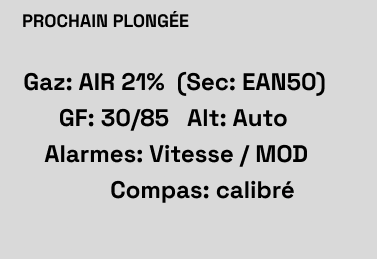
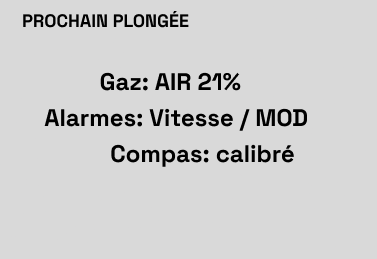
update mockup

diff --git a/docs/mockup.md b/docs/mockup.md
@@ -46,12 +46,12 @@ L'ordinateur affiche plusieurs widgets d'information pendant la plongée :
 - Température : 13.4°C
 - Profondeur maximale : 66m
 - Durée de plongée : 00:26
-- Pression restante dans le détendeur : 50 bars 
+- Pression restante dans la bouteille : 50 bars 
 ![alt text](./mockup/computer/Group%209.png "Title")
 
 **Paliers de décompression** :
 - Graphique des paliers à faire
-- Pression restante dans le détendeur : 50 bars 
+- Pression restante dans la bouteille : 50 bars 
 - Temps restant au palier actuel : 5min
 - Paliers restants : 6m→3m
 - Temps total jusqu'à la surface : 00:15
@@ -68,11 +68,11 @@ L'ordinateur affiche plusieurs widgets d'information pendant la plongée :
   ![alt text](./mockup/computer/Group%205.png "Title")
 
 ### Page disponnible avant la plongée
-**Gaz actif** : 
-- EAN32 (MOD 33m)
-- EAN50 (MOD 21m)
-- Trimix 18/45 (MOD 57m)
-  ![alt text](./mockup/computer/Group%204.png "Title")
+**Sélection du gaz** : 
+- MOD 21m calculer en fonction du gaz choisi
+- Air (21% O²)
+- Nitrox avec le choix du pourcentage d'O²
+  ![alt text](./mockup/computer/Group%2010.png "Title")
 
 **Statuts système** :
 - Batterie : 28%
@@ -86,7 +86,6 @@ L'ordinateur affiche plusieurs widgets d'information pendant la plongée :
 
 **Prochaine plongée** :
 - Gaz : AIR 21% (Sec: EAN50)
-- Gradient Factor : 30/85
 - Mode : Auto
 - Alarmes : Vitesse / MOD
 - Compas : calibré

diff --git a/docs/technical_choices.md b/docs/technical_choices.md
@@ -126,7 +126,7 @@ L'ordinateur Abyss fonctionne de manière totalement autonome :
 ## Phase 2 : Calcul des statistiques finales
 À la fin de la plongée, l'ordinateur :
 
-- Calcule les statistiques complètes (profondeur moyenne, consommation d'air, etc.)
+- Calcule les statistiques complètes (profondeur moyenne, etc.)
 - Génère le résumé de plongée avec tous les événements
 - Prépare les données pour la synchronisation
 
